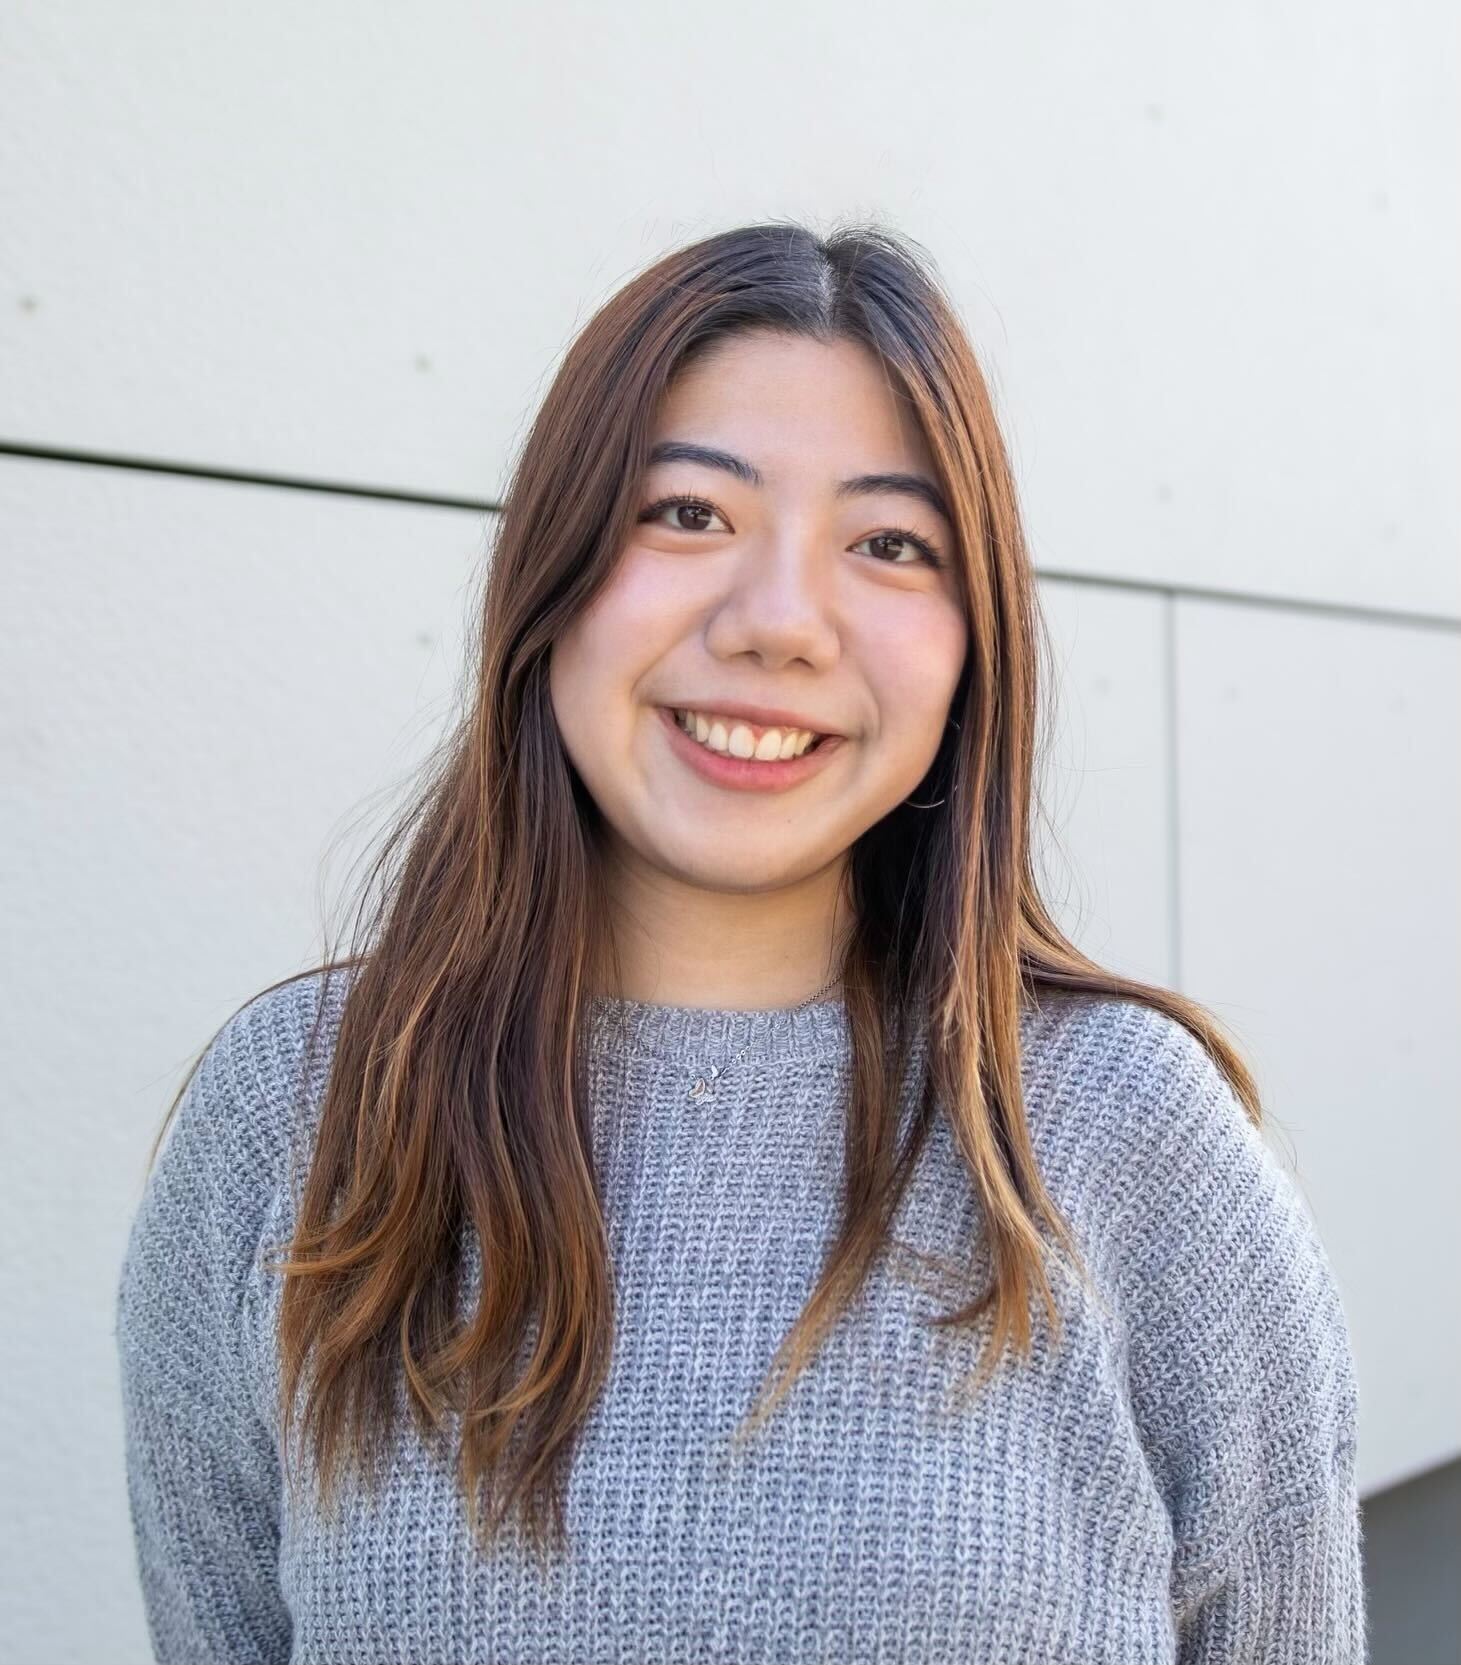
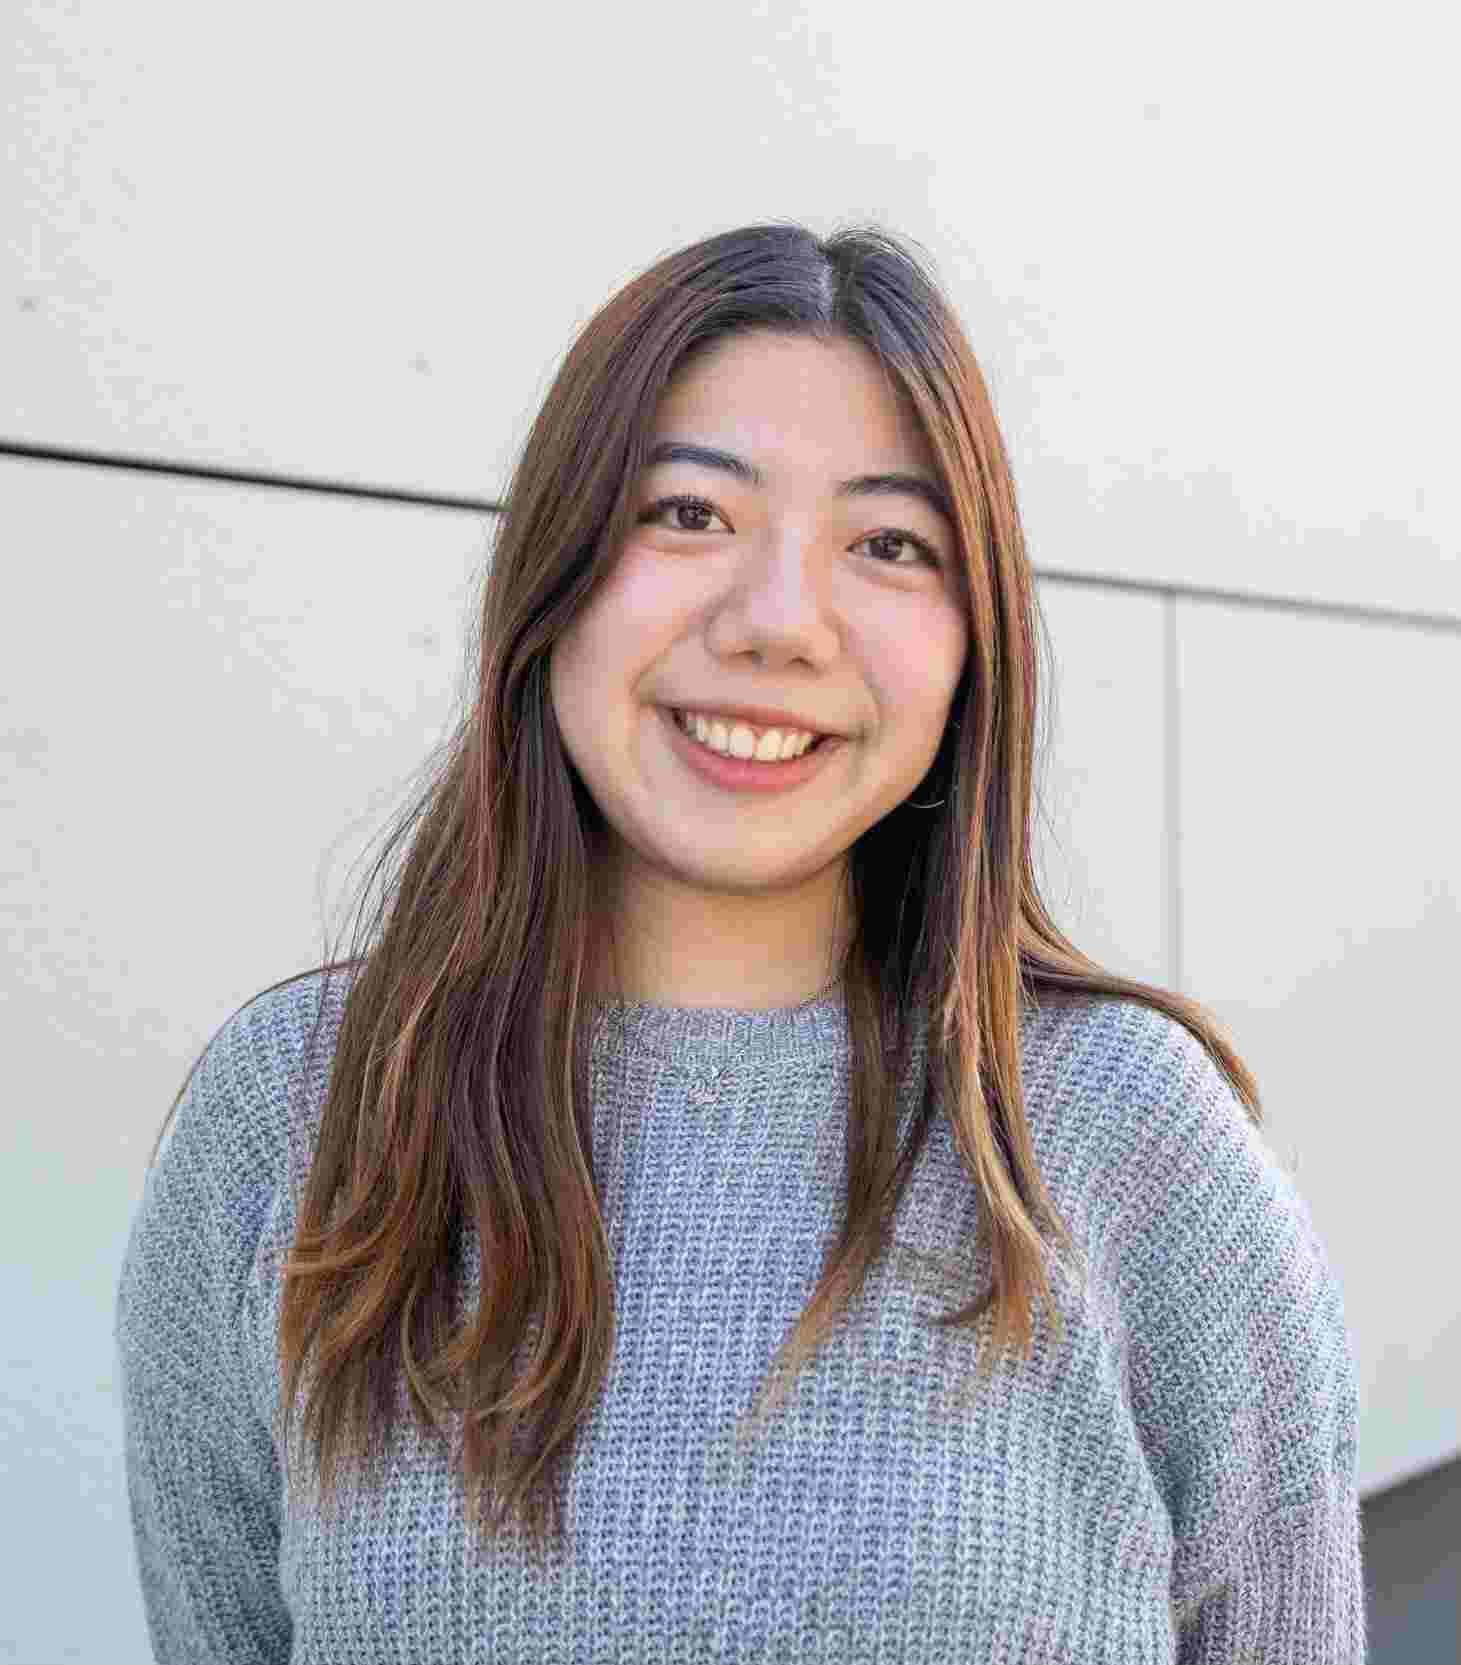
further reduction of headshot file size + script to do so

diff --git a/data/headshots/reduce_headshot_size.py b/data/headshots/reduce_headshot_size.py
@@ -1,0 +1,59 @@
+from PIL import Image
+import os
+
+def compress_image(input_path, output_path, target_size_kb):
+    # Open the image (works with both JPG and PNG)
+    img = Image.open(input_path)
+    
+    # Convert to RGB mode if necessary (for PNG with transparency)
+    if img.mode in ('RGBA', 'LA') or (img.mode == 'P' and 'transparency' in img.info):
+        background = Image.new('RGB', img.size, (255, 255, 255))
+        background.paste(img, mask=img.split()[3] if img.mode == 'RGBA' else None)
+        img = background
+    
+    # Start with high quality
+    quality = 95
+    
+    # Save the image
+    img.save(output_path, format='JPEG', quality=quality)
+    
+    # Only reduce quality if the file exceeds target size
+    if os.path.getsize(output_path) > target_size_kb * 1024:
+        while True:
+            # Save image with current quality
+            img.save(output_path, format='JPEG', quality=quality)
+            if os.path.getsize(output_path) <= target_size_kb * 1024:
+                break
+            quality -= 5  # Reduce quality in steps of 5
+            if quality < 10:  # Don't go too low on quality
+                print(f"Warning: Could not reduce {os.path.basename(input_path)} below {target_size_kb}KB")
+                break
+
+folder_path = '.'  # Change this to your folder path
+target_size_kb = 100  # Target file size in KB
+
+for filename in os.listdir(folder_path):
+    if filename.lower().endswith(('.jpg', '.jpeg', '.png')):
+        input_path = os.path.join(folder_path, filename)
+        
+        # For PNG files, create a JPG output path
+        if filename.lower().endswith('.png'):
+            output_filename = os.path.splitext(filename)[0] + '.jpg'
+            output_path = os.path.join(folder_path, output_filename)
+        else:
+            output_path = os.path.join(folder_path, filename)
+        
+        # Skip if file is already under target size (for JPGs only)
+        if filename.lower().endswith(('.jpg', '.jpeg')) and os.path.getsize(input_path) <= target_size_kb * 1024:
+            print(f'Skipping {filename} (already under {target_size_kb}KB)')
+            continue
+        
+        # Compress the image
+        compress_image(input_path, output_path, target_size_kb)
+        
+        # Delete original PNG file after conversion
+        if filename.lower().endswith('.png') and os.path.exists(output_path):
+            os.remove(input_path)
+            print(f'Converted and compressed {filename} to {output_filename}')
+        else:
+            print(f'Compressed {filename}')
